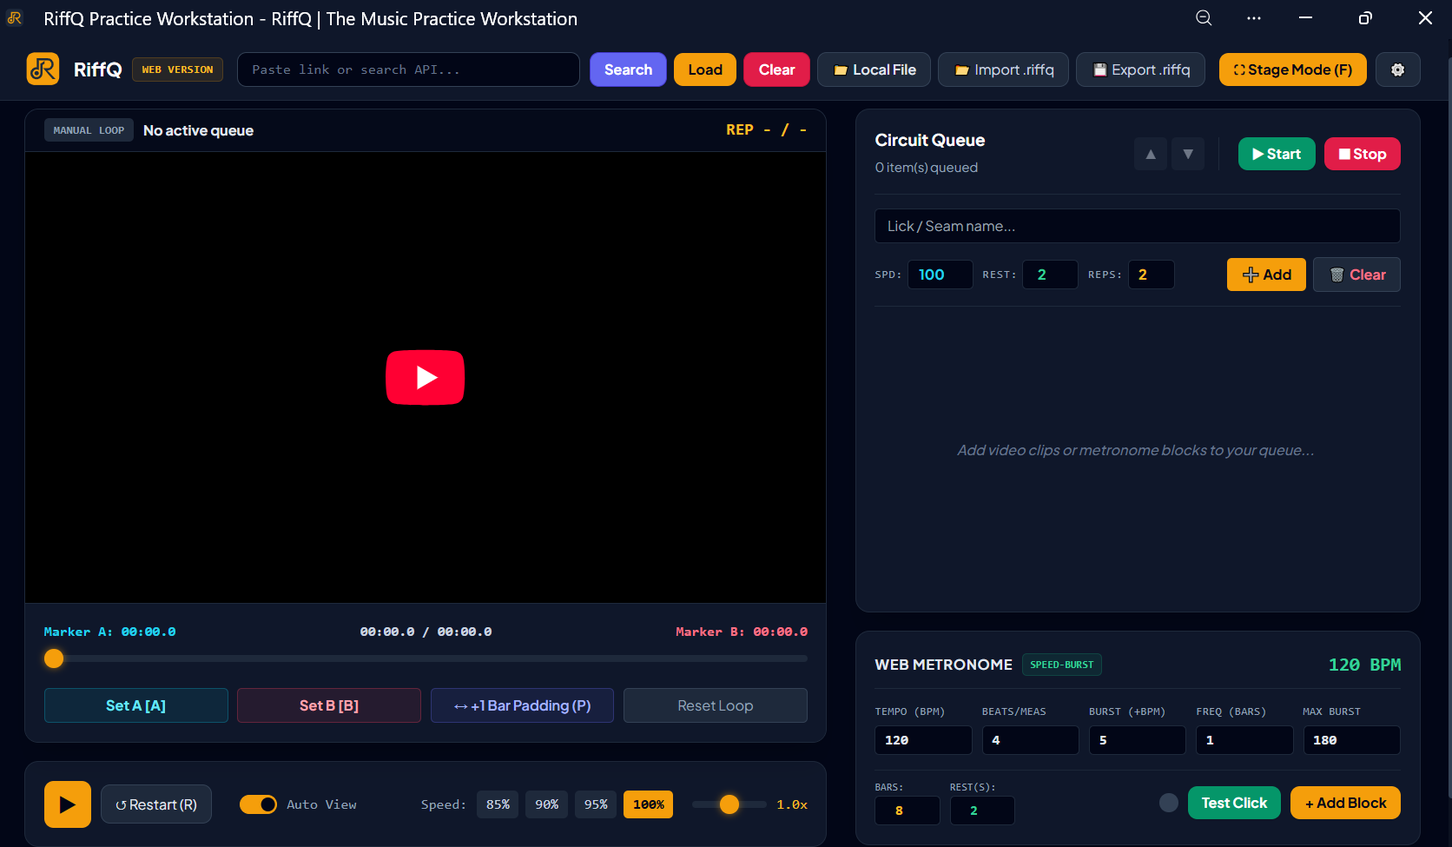
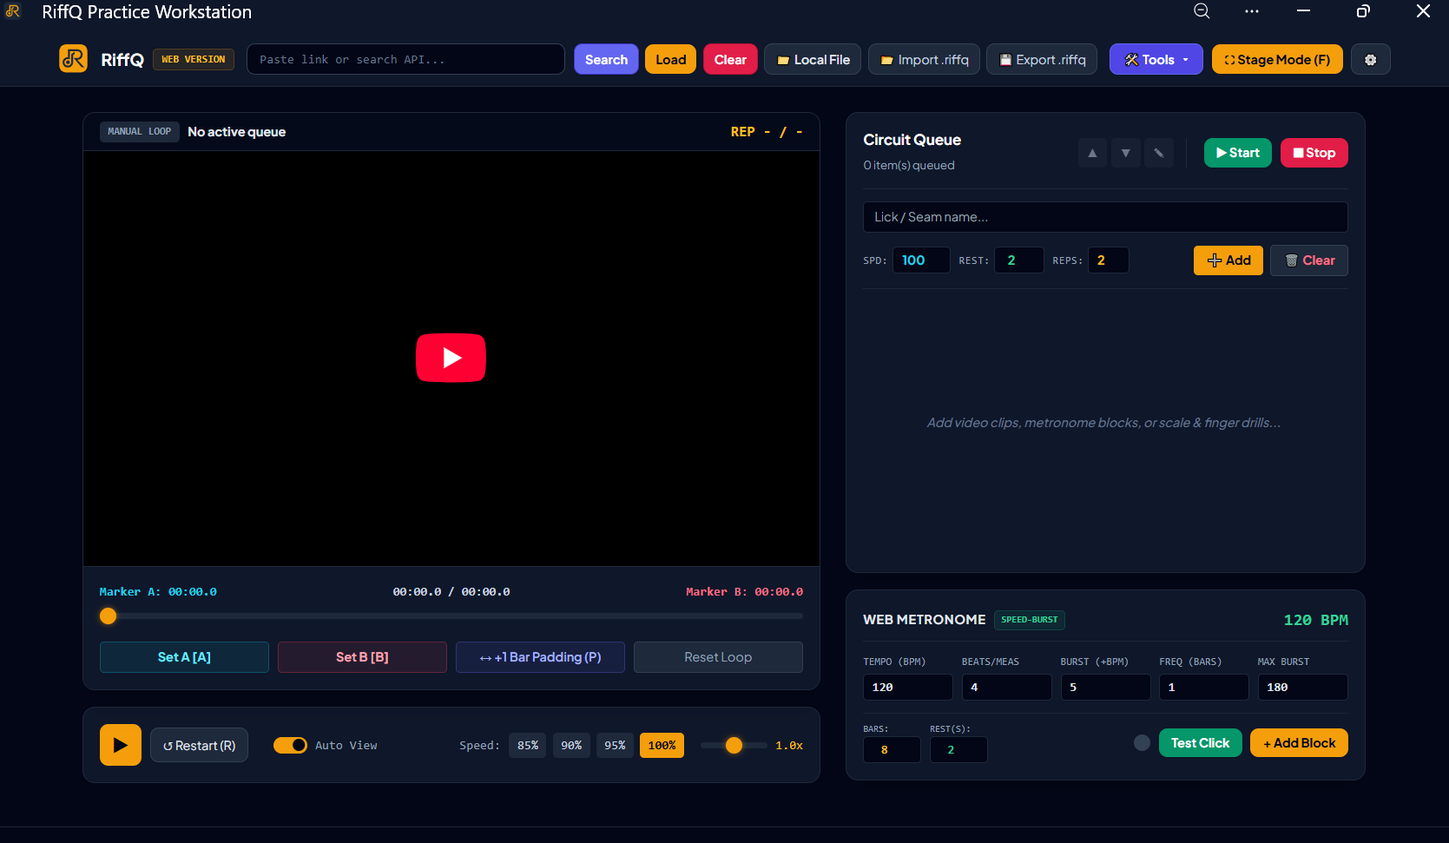
Add files via upload

diff --git a/index.html b/index.html
@@ -5,14 +5,13 @@
   <meta name="viewport" content="width=device-width, initial-scale=1.0">
   <!-- 1. What shows on Google Search -->
   <title>RiffQ | Online Music Looper & Practice Workstation</title>
-  <meta name="description" content="The ultimate browser and desktop practice workstation for guitar, piano, drums, and vocals. Loop and drill YouTube videos or local audio and video files with automated circuits and speed bursts.">
+  <meta name="description" content="The ultimate browser and desktop practice workstation for guitar, piano, drums, and vocals. Loop and drill YouTube videos or local audio/video files with automated circuits and speed bursts.">
   <link rel="canonical" href="https://riffq.app/">
 
   <!-- 2. The Browser Tab Icon -->
   <link rel="icon" type="image/svg+xml" href="riffqrb.svg">
   <link rel="icon" type="image/png" sizes="192x192" href="favriffq.png">
   <link rel="apple-touch-icon" href="favriffq.png">
-
 
   <!-- 3. What shows when shared on Socials / Messaging Apps (WhatsApp, Discord, etc.) -->
   <meta property="og:type" content="website">
@@ -48,8 +47,6 @@
     }
   </script>
 
-  <!-- Lemon Squeezy Checkout Script -->
-  <script src="https://assets.lemonsqueezy.com/lemon.js" defer></script>
   <style>
     html { scroll-behavior: smooth; }
     .fade-in-up { animation: fadeInUp 0.8s cubic-bezier(0.16, 1, 0.3, 1) forwards; opacity: 0; transform: translateY(20px); }
@@ -64,9 +61,7 @@
       backdrop-filter: blur(4px);
     }
   </style>
- <script defer src="https://cloud.umami.is/script.js" data-website-id="17b6f927-d15b-4796-b8ba-619569491623"></script>
- <script>window.lemonSqueezyAffiliateConfig = { store: "riffq" };</script>
-<script src="https://lmsqueezy.com/affiliate.js" defer></script>
+  <script defer src="https://cloud.umami.is/script.js" data-website-id="17b6f927-d15b-4796-b8ba-619569491623"></script>
 </head>
 <body class="bg-slate-950 text-slate-300 font-sans antialiased selection:bg-amber-500 selection:text-black">
 
@@ -74,7 +69,6 @@
   <nav class="border-b border-slate-800/60 bg-slate-950/90 backdrop-blur-md sticky top-0 z-40">
     <div class="max-w-7xl mx-auto px-6 py-4 flex justify-between items-center">
       <a href="#" class="flex items-center gap-2.5">
-        <!-- Brand Logo Icon scaled to match Launch Demo button height -->
         <img src="riffqr.svg" alt="RiffQ Logo" class="h-9 w-9 rounded-lg object-contain">
         <span class="text-xl font-black text-white tracking-tight">RiffQ</span>
       </a>
@@ -125,22 +119,22 @@
     </div>
   </div>
 
-  <!-- PRO TIPS CALLOUTS -->
+  <!-- TIPS CALLOUTS -->
   <div class="max-w-5xl mx-auto px-6 mb-16 fade-in-up delay-2">
     <div class="grid md:grid-cols-2 gap-4">
-      <!-- 90% Zoom Tip -->
+      <!-- Zoom Tip -->
       <div class="bg-slate-900/60 border border-amber-500/30 rounded-xl p-5 flex gap-4 items-start shadow-lg">
         <div class="text-2xl mt-0.5">🔍</div>
         <div>
-          <h4 class="text-white font-bold mb-1">Pro Tip: Try 90% Zoom</h4>
-          <p class="text-slate-400 text-sm leading-relaxed">RiffQ packs a full workstation into one screen. If the interface feels a little tight on your laptop, just hit <kbd class="bg-slate-800 border border-slate-700 rounded px-1.5 py-0.5 text-[11px] font-mono text-slate-300">Ctrl/Cmd</kbd> + <kbd class="bg-slate-800 border border-slate-700 rounded px-1.5 py-0.5 text-[11px] font-mono text-slate-300">-</kbd> to set your browser zoom to 90% for the ultimate layout.</p>
+          <h4 class="text-white font-bold mb-1">Advanced Tip: Try 80%–90% Zoom</h4>
+          <p class="text-slate-400 text-sm leading-relaxed">RiffQ packs a full workstation into one screen. If the interface feels a little tight on your laptop or display scaling alters your view, just hit <kbd class="bg-slate-800 border border-slate-700 rounded px-1.5 py-0.5 text-[11px] font-mono text-slate-300">Ctrl/Cmd</kbd> + <kbd class="bg-slate-800 border border-slate-700 rounded px-1.5 py-0.5 text-[11px] font-mono text-slate-300">-</kbd> to set your browser zoom to 80% or 90% for the ultimate layout.</p>
         </div>
       </div>
       <!-- PWA Install Tip -->
       <div class="bg-slate-900/60 border border-emerald-500/30 rounded-xl p-5 flex gap-4 items-start shadow-lg">
         <div class="text-2xl mt-0.5">📲</div>
         <div>
-          <h4 class="text-white font-bold mb-1">Pro Tip: The Native Experience</h4>
+          <h4 class="text-white font-bold mb-1">Advanced Tip: The Native Experience</h4>
           <p class="text-slate-400 text-sm leading-relaxed">Want RiffQ to feel like a standalone desktop program? Click the <strong class="text-emerald-400">📲 Install App</strong> button at the bottom right of the screen. It installs directly to your device and opens in its own dedicated, clutter-free window. (The button auto-vanishes once installed!)</p>
         </div>
       </div>
@@ -191,7 +185,7 @@
   <!-- 6. FEATURES GRID -->
   <section id="features" class="max-w-6xl mx-auto px-6 py-24">
     <h2 class="text-3xl font-black text-white mb-12 text-center tracking-tight">Everything you need to master your material.</h2>
-    <div class="grid md:grid-cols-2 gap-6">
+    <div class="grid md:grid-cols-2 lg:grid-cols-3 gap-6">
       <div class="bg-slate-900/50 border border-slate-800 p-8 rounded-2xl">
         <div class="text-3xl mb-4">🔁</div>
         <h3 class="text-xl font-bold text-white mb-3">Dual-Engine Looper</h3>
@@ -212,6 +206,27 @@
         <h3 class="text-xl font-bold text-white mb-3">Speed-Burst Metronome</h3>
         <p class="text-slate-400 leading-relaxed">A built-in metronome that automatically bumps the BPM after a set number of bars. Push your limits without stopping to turn a dial.</p>
       </div>
+      <div class="bg-slate-900/50 border border-slate-800 p-8 rounded-2xl md:col-span-2 lg:col-span-2">
+        <div class="text-3xl mb-4">🎸</div>
+        <h3 class="text-xl font-bold text-white mb-3">Interactive Practice Tools Studio</h3>
+        <p class="text-slate-400 leading-relaxed mb-6">Access built-in algorithmic visualizers including Guitar/Bass fretboard scale trainers, chord quality references, piano independence drills, and drum rudiment grids that link directly into your metronome-synced circuits.</p>
+        
+        <!-- 3-Column Screenshot Gallery -->
+        <div class="grid sm:grid-cols-3 gap-4 pt-4 border-t border-slate-800/80">
+          <div class="bg-slate-950 border border-slate-800 rounded-xl overflow-hidden p-2 shadow-lg">
+            <img src="gscale.PNG" alt="Guitar Fretboard Scale Trainer" class="w-full rounded-lg object-cover border border-slate-800 mb-2">
+            <p class="text-[11px] text-center font-mono text-slate-400 font-bold">Guitar Fretboard Scale Trainer</p>
+          </div>
+          <div class="bg-slate-950 border border-slate-800 rounded-xl overflow-hidden p-2 shadow-lg">
+            <img src="pscale.PNG" alt="Piano Independence Drills" class="w-full rounded-lg object-cover border border-slate-800 mb-2">
+            <p class="text-[11px] text-center font-mono text-slate-400 font-bold">Piano Independence & Hanon</p>
+          </div>
+          <div class="bg-slate-950 border border-slate-800 rounded-xl overflow-hidden p-2 shadow-lg">
+            <img src="dscale.PNG" alt="Drum Rudiment & Sticking Grid" class="w-full rounded-lg object-cover border border-slate-800 mb-2">
+            <p class="text-[11px] text-center font-mono text-slate-400 font-bold">Drum Rudiment & Sticking Grid</p>
+          </div>
+        </div>
+      </div>
     </div>
   </section>
 
@@ -231,7 +246,7 @@
         
         <!-- Educator Footnote -->
         <p class="text-xs text-slate-950/80 leading-relaxed font-medium">
-          * Note for educators: Students can load and practice lesson files in the Free Demo without the 15-second loop cutoff. Advanced controls—such as custom speed changes below 100%, queues beyond 3 items, and creating new files—require a Full license.
+          * Note for educators: Students can load and practice lesson files in the Free Demo without the 15-second loop cutoff. Advanced controls—such as custom speed changes below 100%, queues beyond 3 items, and creating new files—require a full license.
         </p>
       </div>
       <div class="bg-slate-950 border-4 border-slate-900 rounded-2xl p-6 shadow-2xl rotate-2">
@@ -251,7 +266,7 @@
     </div>
   </section>
 
-  <!-- NEW: TEST IT OUT SECTION (REDDIT ROUTINE DOWNLOAD) -->
+  <!-- TEST IT OUT SECTION -->
   <section id="sample-download" class="py-20 bg-slate-900/60 border-b border-slate-800">
     <div class="max-w-4xl mx-auto px-6 text-center">
       <div class="inline-block bg-amber-500/10 border border-amber-500/30 text-amber-400 text-xs font-bold px-3 py-1 rounded-full mb-4 uppercase tracking-wider">Free Test Drive</div>
@@ -284,7 +299,6 @@
           <a href="https://reddit.com/u/riffqapp" target="_blank" rel="noopener noreferrer" class="inline-block bg-amber-500 hover:bg-amber-400 text-slate-950 font-black px-6 py-2.5 rounded-xl transition text-sm shadow-lg shadow-amber-500/20 mb-4">
             Visit Reddit Post & Download File →
           </a>
-          <!-- Legal Transparency Note -->
           <p class="text-[11px] text-slate-400 italic bg-slate-900/80 border border-slate-800/80 p-2.5 rounded-lg leading-relaxed">
             *(Note: Sharing a .riffq file is totally legal—it's just a lightweight text configuration file containing public URLs and timestamps, so it doesn't host or distribute any copyrighted media.)*
           </p>
@@ -303,7 +317,7 @@
 
       <div class="grid md:grid-cols-2 lg:grid-cols-4 gap-6 items-stretch">
         
-        <!-- 1. Demo Tier -->
+        <!-- 1. Free Demo Tier -->
         <div class="bg-slate-900 border border-slate-800 rounded-3xl p-6 flex flex-col justify-between">
           <div>
             <h3 class="text-xl font-bold text-white mb-1">Free Demo</h3>
@@ -322,33 +336,7 @@
           <a href="https://demo.riffq.app" class="w-full block text-center bg-slate-800 hover:bg-slate-700 text-white font-bold py-2.5 rounded-xl transition border border-slate-700 text-sm">Launch Demo</a>
         </div>
 
-        <!-- 2. Web Version Tier -->
-        <div class="bg-slate-900 border border-slate-800 rounded-3xl p-6 flex flex-col justify-between relative shadow-lg">
-          <div>
-            <h3 class="text-xl font-bold text-white mb-1">Web Version</h3>
-            <div class="flex items-baseline gap-2 mb-4">
-              <span class="text-xl text-slate-500 line-through font-bold">$34</span>
-              <span class="text-3xl font-black text-amber-500">$29</span>
-              <span class="text-xs text-slate-400 font-normal">one-time</span>
-            </div>
-            <p class="text-slate-400 text-sm mb-6 leading-relaxed">The fully unlocked workstation hosted on <span class="font-mono text-slate-300 text-xs">web.riffq.app</span>.</p>
-            <ul class="space-y-3 mb-6 text-xs text-slate-300">
-              <li class="flex items-start gap-2"><span>🔓</span> <strong>Full YouTube & local audio/video support</strong></li>
-              <li class="flex items-start gap-2"><span>🔓</span> <strong>Unlimited loop lengths</strong></li>
-              <li class="flex items-start gap-2"><span>🔓</span> <strong>Practice queues up to 50 items</strong></li>
-              <li class="flex items-start gap-2"><span>🔓</span> <strong>Continuous speed manipulation (0.5x–1.25x)</strong></li>
-              <li class="flex items-start gap-2"><span>🔓</span> <strong>Speed-Burst Metronome unlocked</strong></li>
-              <li class="flex items-start gap-2"><span>🔓</span> <strong>Export & share custom <span class="font-mono text-amber-500">.riffq</span> files</strong></li>
-              <li class="flex items-start gap-2"><span>🚀</span> <strong>Includes all v1.x feature updates</strong></li>
-              <p class="text-[11px] text-slate-500 mt-3 pt-3 border-t border-slate-800/80">
-                💡 Pairs best with a YouTube Premium account for completely ad-free practice drills.
-              </p>
-            </ul>
-          </div>
-          <a href="https://demo.riffq.app" class="lemonsqueezy-button w-full block text-center bg-amber-500 hover:bg-amber-400 text-slate-950 font-extrabold py-2.5 rounded-xl transition shadow-md shadow-amber-500/20 text-sm">Get Web Version</a>
-        </div>
-
-        <!-- 3. Desktop Version Tier -->
+        <!-- 2. Desktop Version Tier -->
         <div class="bg-slate-900 border border-slate-800 rounded-3xl p-6 flex flex-col justify-between relative shadow-lg">
           <div>
             <h3 class="text-xl font-bold text-white mb-1">Desktop Version</h3>
@@ -363,12 +351,39 @@
               <li class="flex items-start gap-2"><span>⚡</span> <strong>Native low-latency performance</strong></li>
               <li class="flex items-start gap-2"><span>🔓</span> <strong>Queues up to 50 items & unlimited loops</strong></li>
               <li class="flex items-start gap-2"><span>🔓</span> <strong>Full speed controls & metronome</strong></li>
-              <li class="flex items-start gap-2"><span>🔓</span> <strong>Export<span class="font-mono text-amber-500">.riffqdesk</span> files</strong></li>
+              <li class="flex items-start gap-2"><span>🔓</span> <strong>Export <span class="font-mono text-amber-500">.riffqdesk</span> files</strong></li>
               <li class="flex items-start gap-2"><span>🚀</span> <strong>Includes all v1.x desktop updates</strong></li>
               <li class="flex items-start gap-2"><span class="text-amber-500">⚠</span> <strong class="text-amber-400">Local audio/video only (No YouTube)</strong></li>
             </ul>
           </div>
-          <a href="https://demo.riffq.app" class="lemonsqueezy-button w-full block text-center bg-slate-800 hover:bg-slate-700 text-white font-bold py-2.5 rounded-xl transition border border-slate-700 text-sm">Get Desktop App</a>
+          <a href="https://demo.riffq.app" class="w-full block text-center bg-slate-800 hover:bg-slate-700 text-white font-bold py-2.5 rounded-xl transition border border-slate-700 text-sm">Get Desktop App</a>
+        </div>
+
+        <!-- 3. Web Version Tier -->
+        <div class="bg-slate-900 border border-slate-800 rounded-3xl p-6 flex flex-col justify-between relative shadow-lg">
+          <div>
+            <h3 class="text-xl font-bold text-white mb-1">Web Version</h3>
+            <div class="flex items-baseline gap-2 mb-4">
+              <span class="text-xl text-slate-500 line-through font-bold">$39</span>
+              <span class="text-3xl font-black text-amber-500">$34</span>
+              <span class="text-xs text-slate-400 font-normal">one-time</span>
+            </div>
+            <p class="text-slate-400 text-sm mb-6 leading-relaxed">The fully unlocked workstation hosted on <span class="font-mono text-slate-300 text-xs">web.riffq.app</span>.</p>
+            <ul class="space-y-3 mb-6 text-xs text-slate-300">
+              <li class="flex items-start gap-2"><span>🔓</span> <strong>Full YouTube & local audio/video support</strong></li>
+              <li class="flex items-start gap-2"><span>🔓</span> <strong>Unlimited loop lengths</strong></li>
+              <li class="flex items-start gap-2"><span>🔓</span> <strong>Practice queues up to 50 items</strong></li>
+              <li class="flex items-start gap-2"><span>🔓</span> <strong>Continuous speed manipulation (0.5x–1.25x)</strong></li>
+              <li class="flex items-start gap-2"><span>🔓</span> <strong>Speed-Burst Metronome unlocked</strong></li>
+              <li class="flex items-start gap-2"><span>🎸</span> <strong>Algorithmic Practice Tools & Fretboard Visualizers</strong></li>
+              <li class="flex items-start gap-2"><span>🔓</span> <strong>Export & share custom <span class="font-mono text-amber-500">.riffq</span> files</strong></li>
+              <li class="flex items-start gap-2"><span>🚀</span> <strong>Includes all v1.x feature updates</strong></li>
+              <p class="text-[11px] text-slate-500 mt-3 pt-3 border-t border-slate-800/80">
+                💡 Pairs best with a YouTube Premium account for completely ad-free practice drills.
+              </p>
+            </ul>
+          </div>
+          <a href="https://demo.riffq.app" class="w-full block text-center bg-amber-500 hover:bg-amber-400 text-slate-950 font-extrabold py-2.5 rounded-xl transition shadow-md shadow-amber-500/20 text-sm">Get Web Version</a>
         </div>
 
         <!-- 4. All-Access Bundle -->
@@ -377,8 +392,8 @@
           <div>
             <h3 class="text-xl font-bold text-white mb-1">All-Access Bundle</h3>
             <div class="flex items-baseline gap-2 mb-4">
-              <span class="text-xl text-slate-500 line-through font-bold">$44</span>
-              <span class="text-3xl font-black text-amber-500">$39</span>
+              <span class="text-xl text-slate-500 line-through font-bold">$49</span>
+              <span class="text-3xl font-black text-amber-500">$44</span>
               <span class="text-xs text-slate-400 font-normal">one-time</span>
             </div>
             <p class="text-slate-400 text-sm mb-6 leading-relaxed">The complete practice toolkit. Get both the Web version and RiffQ Desktop app.</p>
@@ -387,10 +402,11 @@
               <li class="flex items-start gap-2"><span>▶</span> <strong>Full YouTube streaming on Web Version</strong></li>
               <li class="flex items-start gap-2"><span>💻</span> <strong>Includes Standalone RiffQ Desk App (Mac/PC)</strong></li>
               <li class="flex items-start gap-2"><span>🔓</span> <strong>50-item queues & all features unlocked</strong></li>
+              <li class="flex items-start gap-2"><span>🎸</span> <strong>Algorithmic Practice Tools & Fretboard Visualizers</strong></li>
               <li class="flex items-start gap-2"><span>🚀</span> <strong>Includes all v1.x platform updates</strong></li>
             </ul>
           </div>
-          <a href="https://demo.riffq.app" class="lemonsqueezy-button w-full block text-center bg-amber-500 hover:bg-amber-400 text-slate-950 font-extrabold py-2.5 rounded-xl transition shadow-md shadow-amber-500/20 text-sm">Get All-Access Bundle</a>
+          <a href="https://demo.riffq.app" class="w-full block text-center bg-amber-500 hover:bg-amber-400 text-slate-950 font-extrabold py-2.5 rounded-xl transition shadow-md shadow-amber-500/20 text-sm">Get All-Access Bundle</a>
         </div>
 
       </div>
@@ -488,7 +504,7 @@
           <span class="text-slate-400 text-xl font-mono">+</span>
         </button>
         <div class="p-5 pt-0 text-slate-400 text-sm hidden border-t border-slate-800/50 mt-1 leading-relaxed">
-          Yes! When loading an imported file into the Free Demo, the 15-second loop restriction is bypassed so full phrases play as you designed them. However, demo queues remain capped at 3 items, speed is locked to 100%, and routines run a maximum of 2 reps. Upgrading to the Full version removes all limits.
+          Yes! When loading an imported file into the Free Demo, the 15-second loop restriction is bypassed so full phrases play as you designed them. However, demo queues remain capped at 3 items, speed is locked to 100%, and routines run a maximum of 2 reps. Upgrading to the full version removes all limits.
         </div>
       </div>
 
@@ -516,7 +532,20 @@
         </div>
       </div>
 
-       <!-- FAQ 10: Mobile -->
+      <!-- FAQ 10: Mobile & Tool Sizing -->
+      <div class="bg-slate-900 border border-slate-800 rounded-xl overflow-hidden">
+        <button class="w-full flex justify-between items-center p-5 text-left hover:bg-slate-850 transition" onclick="toggleFaq(this)">
+          <span class="font-bold text-white">Why do the advanced practice tools lock on certain screens or laptops?</span>
+          <span class="text-slate-400 text-xl font-mono">+</span>
+        </button>
+        <div class="p-5 pt-0 text-slate-400 text-sm hidden border-t border-slate-800/50 mt-1 leading-relaxed">
+          <p class="mb-2">RiffQ's interactive practice studio tools (such as fretboard trainers, keyboard visualizers, and chord scale maps) require a minimum desktop or tablet screen resolution to display complex fretboards and notation clearly without crowding.</p>
+          <p class="mb-2">On smartphones, narrow viewports, or laptops running high Windows display scaling (e.g. 125% or 150% magnification which squashes the logical browser width), the app shifts into a streamlined companion mode to prioritize video looping and metronome controls.</p>
+          <p>If your laptop workstation triggers this lock unexpectedly, simply hit <kbd class="bg-slate-800 border border-slate-700 rounded px-1.5 py-0.5 text-[11px] font-mono text-slate-300">Ctrl</kbd> + <kbd class="bg-slate-800 border border-slate-700 rounded px-1.5 py-0.5 text-[11px] font-mono text-slate-300">-</kbd> to set your browser zoom to 80% or 90% for the full desktop studio layout.</p>
+        </div>
+      </div>
+
+       <!-- FAQ 11: Mobile General -->
       <div class="bg-slate-900 border border-slate-800 rounded-xl overflow-hidden">
         <button class="w-full flex justify-between items-center p-5 text-left hover:bg-slate-850 transition" onclick="toggleFaq(this)">
           <span class="font-bold text-white">Does it work on mobile or tablets?</span>
@@ -527,7 +556,7 @@
         </div>
       </div>
       
-      <!-- FAQ 11: Shortcut Keys -->
+      <!-- FAQ 12: Shortcut Keys -->
       <div class="bg-slate-900 border border-slate-800 rounded-xl overflow-hidden">
         <button class="w-full flex justify-between items-center p-5 text-left hover:bg-slate-850 transition" onclick="toggleFaq(this)">
           <span class="font-bold text-white">Are there any keyboard shortcuts?</span>
@@ -543,7 +572,7 @@
           <p class="font-bold text-white mb-1">Metronome Controls</p>
           <ul class="list-disc pl-5 space-y-1 mb-3 text-slate-300">
             <li><strong>V</strong> — Toggles the blue visual background flash on/off (syncs with your saved preference).</li>
-            <li><strong>1</strong> — Starts or stops the standalone metronome (Test Click).</li>
+            <li><strong>1</strong> — Starts or stands by the standalone metronome (Test Click).</li>
             <li><strong>2</strong> — Increases the metronome tempo by +5 BPM.</li>
             <li><strong>3</strong> — Decreases the metronome tempo by -5 BPM.</li>
             <li><strong>4</strong> — Instantly resets the metronome tempo back to 120 BPM.</li>
@@ -566,12 +595,11 @@
     <div class="max-w-6xl mx-auto px-6 grid md:grid-cols-3 gap-8 mb-8 text-center md:text-left">
       <div>
         <div class="flex items-center justify-center md:justify-start gap-2.5 mb-4">
-          <!-- Footer Logo matched with brand text -->
           <img src="riffqr.svg" alt="RiffQ Logo" class="h-9 w-9 rounded-lg object-contain">
           <span class="text-xl font-black text-white tracking-tight">RiffQ</span>
         </div>
         <p class="text-slate-500 text-sm leading-relaxed">Built by a musician, for musicians.<br>The music practice workstation.</p>
-        <p class="text-slate-500 text-xs mt-3 leading-relaxed">Payments and orders are securely processed by Lemon Squeezy, our Merchant of Record.</p>
+        <p class="text-slate-500 text-xs mt-3 leading-relaxed">Secure global payments and order management processed via Paddle.</p>
       </div>
       <div>
         <h4 class="text-white font-bold mb-4">System Requirements</h4>
@@ -732,13 +760,13 @@
         </ul>
 
         <h4 class="font-bold text-white">3. Payments & Financial Information</h4>
-        <p>All payments, invoicing, and tax collections are processed directly by our Merchant of Record, Lemon Squeezy, LLC. We do not collect, process, or store your credit card numbers, bank account information, or billing street addresses on our servers.</p>
+        <p>All payments, invoicing, and tax collections are processed securely via Paddle, our Merchant of Record. We do not collect, process, or store your credit card numbers, bank account information, or billing street addresses on our servers.</p>
 
         <h4 class="font-bold text-white">4. Local Media Files & Privacy</h4>
         <p>RiffQ and RiffQ Desk process your local media (such as MP3, WAV, and video files) entirely on your device locally. Your personal media files are never uploaded, analyzed, or transmitted to any external servers.</p>
 
         <h4 class="font-bold text-white">5. License Key Verification</h4>
-        <p>When you enter your license key to unlock your workstation, the app communicates with Lemon Squeezy’s licensing API strictly to verify that the key is valid and active. No personal practice files, routines, or loop data are sent with this verification.</p>
+        <p>When you enter your license key to unlock your workstation, the app communicates with our backend licensing database strictly to verify that the key is valid and active. No personal practice files, routines, or loop data are sent with this verification.</p>
 
         <h4 class="font-bold text-white">6. Local Storage</h4>
         <p>RiffQ uses local device storage solely to remember your license key, optional YouTube API key, and practice preferences (marker positions, playback speed). This data remains exclusively on your device.</p>
@@ -765,7 +793,7 @@
         <h4 class="font-bold text-white">14-Day Money-Back Guarantee</h4>
         <p>If RiffQ does not perform as expected, or if you run into technical compatibility issues with your browser, operating system, or audio setup that we cannot resolve, you are eligible for a full refund within 14 days of your purchase date.</p>
         <h4 class="font-bold text-white">How to Request a Refund</h4>
-        <p>Email <a href="mailto:riffqapp@gmail.com" class="text-amber-500 underline">riffqapp@gmail.com</a> with your order email and license key. Once verified, your refund will be processed promptly through Lemon Squeezy back to your original payment method.</p>
+        <p>Email <a href="mailto:riffqapp@gmail.com" class="text-amber-500 underline">riffqapp@gmail.com</a> with your order email and license key. Once verified, your refund will be processed promptly through our payment processor back to your original payment method.</p>
         <h4 class="font-bold text-white">License Revocation</h4>
         <p>Upon completion of a refund, the associated license key will be permanently deactivated.</p>
       </div>
